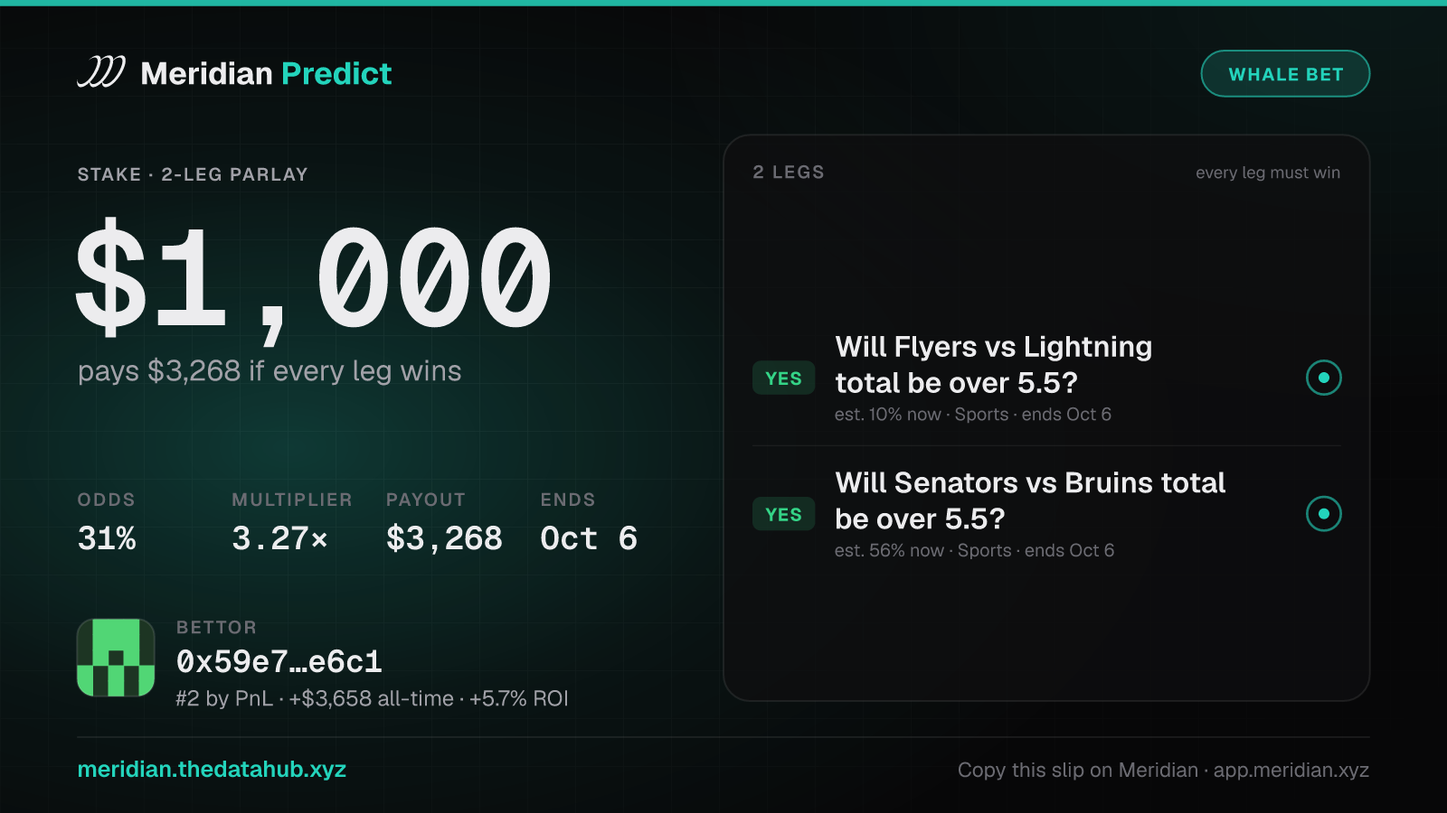
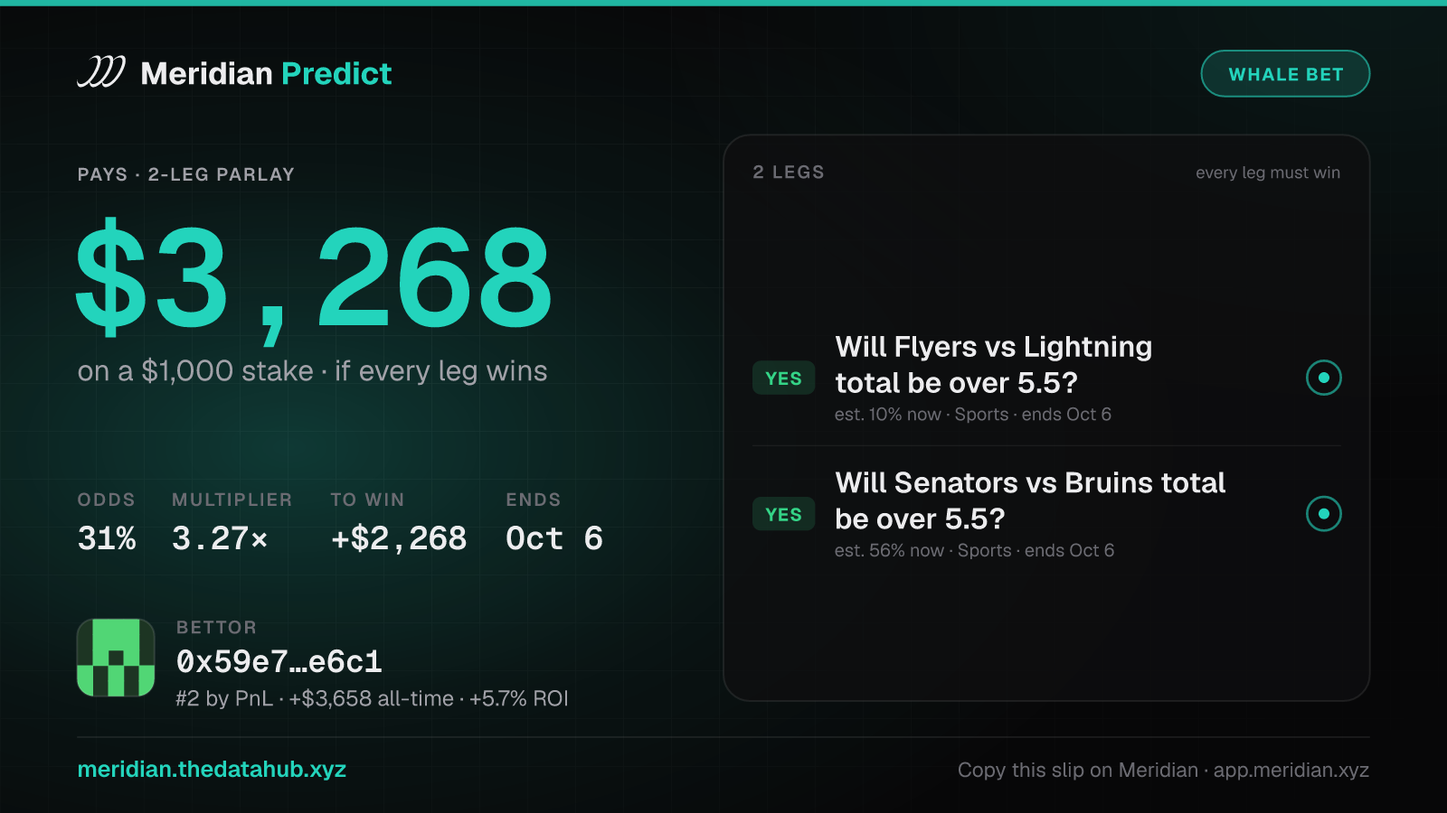
X bot preview page: the payout-first cards
The bot's bet cards now lead with what the bet pays, in the alert's colour, with the stake under it in smaller type, and
the posts open with the payout line. The page is rebuilt from a fresh 72-hour preview run with the new cards and cover.
A result reply under a bet whose tokens were sold together with the bettor's other bets on the same picks now says so
($1,372 for its 3 bets on these picks) instead of setting the whole sale against the one bet.

diff --git a/x-bot/index.html b/x-bot/index.html
@@ -12,7 +12,7 @@
 <meta property="og:url" content="https://meridian.thedatahub.xyz/x-bot/">
 <meta property="og:title" content="Predict alerts bot · 72-hour preview">
 <meta property="og:description" content="11 posts in 72 hours, replayed on live Meridian Predict data: whale bets, long shots, big wins, result replies and the daily recap, each with its card. Nothing was posted.">
-<meta property="og:image" content="https://meridian.thedatahub.xyz/x-bot/cover.png?v=26ab5f5925">
+<meta property="og:image" content="https://meridian.thedatahub.xyz/x-bot/cover.png?v=02d71a287f">
 <meta property="og:image:type" content="image/png">
 <meta property="og:image:width" content="1200">
 <meta property="og:image:height" content="630">
@@ -20,7 +20,7 @@
 <meta name="twitter:card" content="summary_large_image">
 <meta name="twitter:title" content="Predict alerts bot · 72-hour preview">
 <meta name="twitter:description" content="11 posts in 72 hours, replayed on live Meridian Predict data: whale bets, long shots, big wins, result replies and the daily recap, each with its card. Nothing was posted.">
-<meta name="twitter:image" content="https://meridian.thedatahub.xyz/x-bot/cover.png?v=26ab5f5925">
+<meta name="twitter:image" content="https://meridian.thedatahub.xyz/x-bot/cover.png?v=02d71a287f">
 <meta name="twitter:image:alt" content="Predict alerts bot: what it would have posted in the last 72 hours, with two of its cards">
 <meta name="color-scheme" content="dark">
 <meta name="theme-color" content="#23d4bc">
@@ -45,24 +45,25 @@
 <article class="post" id="post-202610061739">
   <div class="av"><svg viewBox="0 0 40 40" aria-hidden="true"><rect width="40" height="40" rx="12" fill="var(--av-bg)"/><path d="M8 26h6l3-9 5 15 4-11 2 5h4" fill="none" stroke="var(--accent)" stroke-width="2.4" stroke-linecap="round" stroke-linejoin="round"/></svg></div>
   <div class="body">
-    <header><span class="name">Predict alerts</span><span class="bot">bot preview</span><time datetime="2026-10-06T17:39:14.195Z">Oct 6 · 17:39 UTC</time></header>
+    <header><span class="name">Predict alerts</span><span class="bot">bot preview</span><time datetime="2026-10-06T17:39:00.369Z">Oct 6 · 17:39 UTC</time></header>
     
     <p class="text">🚀 Long shot on Meridian Predict
 
+💰 Pays $5,000 if it hits (23.81×)
 2-leg parlay: Will Croatia win on 2026-10-06? + 1 more
-$210 at 4.2% · pays $5,000 (23.81×) if it hits
+$210 stake at 4.2%
 
 0x090f…cd57 · 105 bets on Meridian Predict
 
 Copy the slip 👉 <a href="https://app.meridian.xyz/predict/p/0x892bde36738341342101d3412c42a1d216c6ae312a758bc52a8bc4ed0d5b6689?ref=BJ9Y51H9XB1L" rel="noopener">app.meridian.xyz/predict/p/0x8…</a></p>
-    <figure><img src="/x-bot/cards/01-longshot.png" alt="Card: a long shot on Meridian Predict. $210 at 4.2% odds, pays $5,000. YES Will Croatia win on 2026-10-06?; YES Will both Luxembourg and Bulgaria score?. Bettor 0x090f…cd57." width="1600" height="900" loading="lazy" decoding="async"></figure>
-    <footer><span class="chip kind" data-kind="longshot">Long shot</span><span class="chip">222/280</span><span class="chip dim">score 93</span></footer>
+    <figure><img src="/x-bot/cards/01-longshot.png" alt="Card: a long shot on Meridian Predict. Pays $5,000 if it hits, on a $210 stake at 4.2% odds. YES Will Croatia win on 2026-10-06?; YES Will both Luxembourg and Bulgaria score?. Bettor 0x090f…cd57." width="1600" height="900" loading="lazy" decoding="async"></figure>
+    <footer><span class="chip kind" data-kind="longshot">Long shot</span><span class="chip">229/280</span><span class="chip dim">score 93</span></footer>
   </div>
 </article>
 <article class="post" id="post-202610060041">
   <div class="av"><svg viewBox="0 0 40 40" aria-hidden="true"><rect width="40" height="40" rx="12" fill="var(--av-bg)"/><path d="M8 26h6l3-9 5 15 4-11 2 5h4" fill="none" stroke="var(--accent)" stroke-width="2.4" stroke-linecap="round" stroke-linejoin="round"/></svg></div>
   <div class="body">
-    <header><span class="name">Predict alerts</span><span class="bot">bot preview</span><time datetime="2026-10-06T00:41:14.195Z">Oct 6 · 00:41 UTC</time></header>
+    <header><span class="name">Predict alerts</span><span class="bot">bot preview</span><time datetime="2026-10-06T00:41:00.369Z">Oct 6 · 00:41 UTC</time></header>
     
     <p class="text">📊 Meridian Predict · Monday, Oct 5
 
@@ -78,24 +79,25 @@ Join in 👉 <a href="https://app.meridian.xyz/predict?ref=BJ9Y51H9XB1L" rel="no
 <article class="post" id="post-202610052333">
   <div class="av"><svg viewBox="0 0 40 40" aria-hidden="true"><rect width="40" height="40" rx="12" fill="var(--av-bg)"/><path d="M8 26h6l3-9 5 15 4-11 2 5h4" fill="none" stroke="var(--accent)" stroke-width="2.4" stroke-linecap="round" stroke-linejoin="round"/></svg></div>
   <div class="body">
-    <header><span class="name">Predict alerts</span><span class="bot">bot preview</span><time datetime="2026-10-05T23:33:14.195Z">Oct 5 · 23:33 UTC</time></header>
+    <header><span class="name">Predict alerts</span><span class="bot">bot preview</span><time datetime="2026-10-05T23:33:00.369Z">Oct 5 · 23:33 UTC</time></header>
     
-    <p class="text">🐋 $1,000 just landed on Meridian Predict
+    <p class="text">🐋 Big money just landed on Meridian Predict
 
-$1,000 on 2-leg parlay: Will Flyers vs Lightning total be over 5.5? + 1 more
-At 31% · pays $3,268 (3.27×)
+💰 Pays $3,268 if it hits (3.27×)
+2-leg parlay: Will Flyers vs Lightning total be over 5.5? + 1 more
+$1,000 stake at 31%
 
 0x59e7…e6c1 · #2 by PnL · +$3,658 all-time · +5.7% ROI
 
 Copy the slip 👉 <a href="https://app.meridian.xyz/predict/p/0x694653b93bdb89eef1382e96929658cd461d17e34c03e217d4e0edd932a1fd9e?ref=BJ9Y51H9XB1L" rel="noopener">app.meridian.xyz/predict/p/0x6…</a></p>
-    <figure><img src="/x-bot/cards/03-whale.png" alt="Card: a whale bet on Meridian Predict. $1,000 at 31% odds, pays $3,268. YES Will Flyers vs Lightning total be over 5.5?; YES Will Senators vs Bruins total be over 5.5?. Bettor 0x59e7…e6c1." width="1600" height="900" loading="lazy" decoding="async"></figure>
-    <footer><span class="chip kind" data-kind="whale">Whale bet</span><span class="chip">247/280</span><span class="chip dim">score 111</span></footer>
+    <figure><img src="/x-bot/cards/03-whale.png" alt="Card: a whale bet on Meridian Predict. Pays $3,268 if it hits, on a $1,000 stake at 31% odds. YES Will Flyers vs Lightning total be over 5.5?; YES Will Senators vs Bruins total be over 5.5?. Bettor 0x59e7…e6c1." width="1600" height="900" loading="lazy" decoding="async"></figure>
+    <footer><span class="chip kind" data-kind="whale">Whale bet</span><span class="chip">265/280</span><span class="chip dim">score 111</span></footer>
   </div>
 </article>
 <article class="post" id="post-202610052307">
   <div class="av"><svg viewBox="0 0 40 40" aria-hidden="true"><rect width="40" height="40" rx="12" fill="var(--av-bg)"/><path d="M8 26h6l3-9 5 15 4-11 2 5h4" fill="none" stroke="var(--accent)" stroke-width="2.4" stroke-linecap="round" stroke-linejoin="round"/></svg></div>
   <div class="body">
-    <header><span class="name">Predict alerts</span><span class="bot">bot preview</span><time datetime="2026-10-05T23:07:14.195Z">Oct 5 · 23:07 UTC</time></header>
+    <header><span class="name">Predict alerts</span><span class="bot">bot preview</span><time datetime="2026-10-05T23:07:00.369Z">Oct 5 · 23:07 UTC</time></header>
     <p class="replying">Reply to the <a href="#post-202610051627">whale bet alert of Oct 5 · 16:27 UTC</a></p>
     <p class="text">✅ It hit!
 
@@ -107,24 +109,25 @@ $1,000 → $4,096 (+$3,096) · 4.10×</p>
 <article class="post" id="post-202610051627">
   <div class="av"><svg viewBox="0 0 40 40" aria-hidden="true"><rect width="40" height="40" rx="12" fill="var(--av-bg)"/><path d="M8 26h6l3-9 5 15 4-11 2 5h4" fill="none" stroke="var(--accent)" stroke-width="2.4" stroke-linecap="round" stroke-linejoin="round"/></svg></div>
   <div class="body">
-    <header><span class="name">Predict alerts</span><span class="bot">bot preview</span><time datetime="2026-10-05T16:27:14.195Z">Oct 5 · 16:27 UTC</time></header>
+    <header><span class="name">Predict alerts</span><span class="bot">bot preview</span><time datetime="2026-10-05T16:27:00.369Z">Oct 5 · 16:27 UTC</time></header>
     
     <p class="text">🐋 Whale bet on Meridian Predict
 
-$1,000 on 4-leg parlay: Will both Italy and Türkiye score? + 3 more
-At 24% · pays $4,096 (4.10×)
+💰 Pays $4,096 if it hits (4.10×)
+4-leg parlay: Will both Italy and Türkiye score? + 3 more
+$1,000 stake at 24%
 
 0x59e7…e6c1 · #2 by PnL · +$3,658 all-time · +5.7% ROI
 
 Copy the slip 👉 <a href="https://app.meridian.xyz/predict/p/0x261a62e76e4d7ec48c7f19d9b64a8dddf88f2de3057bf410600ede51ad011ef2?ref=BJ9Y51H9XB1L" rel="noopener">app.meridian.xyz/predict/p/0x2…</a></p>
-    <figure><img src="/x-bot/cards/05-whale.png" alt="Card: a whale bet on Meridian Predict. $1,000 at 24% odds, pays $4,096. YES Will both Italy and Türkiye score?; YES Will both France and Belgium score?; YES Will France vs Belgium total be over 2.5?; and 1 more legs. Bettor 0x59e7…e6c1." width="1600" height="900" loading="lazy" decoding="async"></figure>
-    <footer><span class="chip kind" data-kind="whale">Whale bet</span><span class="chip">229/280</span><span class="chip dim">score 111</span></footer>
+    <figure><img src="/x-bot/cards/05-whale.png" alt="Card: a whale bet on Meridian Predict. Pays $4,096 if it hits, on a $1,000 stake at 24% odds. YES Will both Italy and Türkiye score?; YES Will both France and Belgium score?; YES Will France vs Belgium total be over 2.5?; and 1 more leg. Bettor 0x59e7…e6c1." width="1600" height="900" loading="lazy" decoding="async"></figure>
+    <footer><span class="chip kind" data-kind="whale">Whale bet</span><span class="chip">244/280</span><span class="chip dim">score 111</span></footer>
   </div>
 </article>
 <article class="post" id="post-202610042307">
   <div class="av"><svg viewBox="0 0 40 40" aria-hidden="true"><rect width="40" height="40" rx="12" fill="var(--av-bg)"/><path d="M8 26h6l3-9 5 15 4-11 2 5h4" fill="none" stroke="var(--accent)" stroke-width="2.4" stroke-linecap="round" stroke-linejoin="round"/></svg></div>
   <div class="body">
-    <header><span class="name">Predict alerts</span><span class="bot">bot preview</span><time datetime="2026-10-04T23:07:14.195Z">Oct 4 · 23:07 UTC</time></header>
+    <header><span class="name">Predict alerts</span><span class="bot">bot preview</span><time datetime="2026-10-04T23:07:00.369Z">Oct 4 · 23:07 UTC</time></header>
     
     <p class="text">💰 Big win on Meridian Predict
 
@@ -132,41 +135,42 @@ Copy the slip 👉 <a href="https://app.meridian.xyz/predict/p/0x261a62e76e4d7ec
 0x59e7…e6c1 turned $617 into $1,989 (+$1,372)
 
 Make your call 👉 <a href="https://app.meridian.xyz/predict?ref=BJ9Y51H9XB1L" rel="noopener">app.meridian.xyz/predict</a></p>
-    <figure><img src="/x-bot/cards/06-bigwin.png" alt="Card: a big win on Meridian Predict. $617 at 31% odds, pays $1,989. YES Will Netherlands vs Serbia total be over 2.5?; YES Republic of Ireland vs. Israel: Republic of Ireland O/U 0.5; YES Portugal vs. Norway: Portugal O/U 1.5; and 2 more legs. Bettor 0x59e7…e6c1." width="1600" height="900" loading="lazy" decoding="async"></figure>
+    <figure><img src="/x-bot/cards/06-bigwin.png" alt="Card: a big win on Meridian Predict. Won +$1,372: $617 paid $1,989 at 31% odds. YES Will Netherlands vs Serbia total be over 2.5?; YES Republic of Ireland vs. Israel: Republic of Ireland O/U 0.5; YES Portugal vs. Norway: Portugal O/U 1.5; and 2 more legs. Bettor 0x59e7…e6c1." width="1600" height="900" loading="lazy" decoding="async"></figure>
     <footer><span class="chip kind" data-kind="bigwin">Big win</span><span class="chip">190/280</span><span class="chip dim">score 114</span></footer>
   </div>
 </article>
 <article class="post" id="post-202610042109">
   <div class="av"><svg viewBox="0 0 40 40" aria-hidden="true"><rect width="40" height="40" rx="12" fill="var(--av-bg)"/><path d="M8 26h6l3-9 5 15 4-11 2 5h4" fill="none" stroke="var(--accent)" stroke-width="2.4" stroke-linecap="round" stroke-linejoin="round"/></svg></div>
   <div class="body">
-    <header><span class="name">Predict alerts</span><span class="bot">bot preview</span><time datetime="2026-10-04T21:09:14.195Z">Oct 4 · 21:09 UTC</time></header>
+    <header><span class="name">Predict alerts</span><span class="bot">bot preview</span><time datetime="2026-10-04T21:09:00.369Z">Oct 4 · 21:09 UTC</time></header>
     <p class="replying">Reply to the <a href="#post-202610041939">long shot alert of Oct 4 · 19:39 UTC</a></p>
-    <p class="text">✅ The picks won, but 0x21a6…1565 had sold the tokens before the result (for $1,372).</p>
+    <p class="text">✅ The picks won, but 0x21a6…1565 had sold the tokens before the result: $1,372 for its 3 bets on these picks.</p>
     
-    <footer><span class="chip kind" data-kind="won">Result reply</span><span class="chip">86/280</span><span class="chip dim">score 90</span></footer>
+    <footer><span class="chip kind" data-kind="won">Result reply</span><span class="chip">111/280</span><span class="chip dim">score 90</span></footer>
   </div>
 </article>
 <article class="post" id="post-202610041939">
   <div class="av"><svg viewBox="0 0 40 40" aria-hidden="true"><rect width="40" height="40" rx="12" fill="var(--av-bg)"/><path d="M8 26h6l3-9 5 15 4-11 2 5h4" fill="none" stroke="var(--accent)" stroke-width="2.4" stroke-linecap="round" stroke-linejoin="round"/></svg></div>
   <div class="body">
-    <header><span class="name">Predict alerts</span><span class="bot">bot preview</span><time datetime="2026-10-04T19:39:14.195Z">Oct 4 · 19:39 UTC</time></header>
+    <header><span class="name">Predict alerts</span><span class="bot">bot preview</span><time datetime="2026-10-04T19:39:00.369Z">Oct 4 · 19:39 UTC</time></header>
     
-    <p class="text">🚀 $250 on a 7.0% shot
+    <p class="text">🚀 A 7.0% shot on Meridian Predict
 
+💰 Pays $3,571 if it hits (14.29×)
 YES · Rams beats Eagles?
-$250 at 7.0% · pays $3,571 (14.29×) if it hits
+$250 stake
 
 0x21a6…1565 · #7 by PnL · +$1,509 all-time · 70% win rate
 
 Copy the slip 👉 <a href="https://app.meridian.xyz/predict/p/0x317e314fde023a43073ffa6a559403b4b2bebcb38f244f7d226d4806a91edc70?ref=BJ9Y51H9XB1L" rel="noopener">app.meridian.xyz/predict/p/0x3…</a></p>
-    <figure><img src="/x-bot/cards/08-longshot.png" alt="Card: a long shot on Meridian Predict. $250 at 7.0% odds, pays $3,571. YES Rams beats Eagles?. Bettor 0x21a6…1565." width="1600" height="900" loading="lazy" decoding="async"></figure>
-    <footer><span class="chip kind" data-kind="longshot">Long shot</span><span class="chip">197/280</span><span class="chip dim">score 99</span></footer>
+    <figure><img src="/x-bot/cards/08-longshot.png" alt="Card: a long shot on Meridian Predict. Pays $3,571 if it hits, on a $250 stake at 7.0% odds. YES Rams beats Eagles?. Bettor 0x21a6…1565." width="1600" height="900" loading="lazy" decoding="async"></figure>
+    <footer><span class="chip kind" data-kind="longshot">Long shot</span><span class="chip">208/280</span><span class="chip dim">score 99</span></footer>
   </div>
 </article>
 <article class="post" id="post-202610041725">
   <div class="av"><svg viewBox="0 0 40 40" aria-hidden="true"><rect width="40" height="40" rx="12" fill="var(--av-bg)"/><path d="M8 26h6l3-9 5 15 4-11 2 5h4" fill="none" stroke="var(--accent)" stroke-width="2.4" stroke-linecap="round" stroke-linejoin="round"/></svg></div>
   <div class="body">
-    <header><span class="name">Predict alerts</span><span class="bot">bot preview</span><time datetime="2026-10-04T17:25:14.195Z">Oct 4 · 17:25 UTC</time></header>
+    <header><span class="name">Predict alerts</span><span class="bot">bot preview</span><time datetime="2026-10-04T17:25:00.369Z">Oct 4 · 17:25 UTC</time></header>
     
     <p class="text">💰 $300 → $1,078 on Meridian Predict
 
@@ -174,14 +178,14 @@ Copy the slip 👉 <a href="https://app.meridian.xyz/predict/p/0x317e314fde023a4
 0x069a…d505 turned $300 into $1,078 (+$778)
 
 Make your call 👉 <a href="https://app.meridian.xyz/predict?ref=BJ9Y51H9XB1L" rel="noopener">app.meridian.xyz/predict</a></p>
-    <figure><img src="/x-bot/cards/09-bigwin.png" alt="Card: a big win on Meridian Predict. $300 at 28% odds, pays $1,078. YES Will Azerbaijan win on 2026-10-04?; YES Will Scotland win on 2026-10-03?. Bettor 0x069a…d505." width="1600" height="900" loading="lazy" decoding="async"></figure>
+    <figure><img src="/x-bot/cards/09-bigwin.png" alt="Card: a big win on Meridian Predict. Won +$778: $300 paid $1,078 at 28% odds. YES Will Azerbaijan win on 2026-10-04?; YES Will Scotland win on 2026-10-03?. Bettor 0x069a…d505." width="1600" height="900" loading="lazy" decoding="async"></figure>
     <footer><span class="chip kind" data-kind="bigwin">Big win</span><span class="chip">184/280</span><span class="chip dim">score 110</span></footer>
   </div>
 </article>
 <article class="post" id="post-202610040301">
   <div class="av"><svg viewBox="0 0 40 40" aria-hidden="true"><rect width="40" height="40" rx="12" fill="var(--av-bg)"/><path d="M8 26h6l3-9 5 15 4-11 2 5h4" fill="none" stroke="var(--accent)" stroke-width="2.4" stroke-linecap="round" stroke-linejoin="round"/></svg></div>
   <div class="body">
-    <header><span class="name">Predict alerts</span><span class="bot">bot preview</span><time datetime="2026-10-04T03:01:14.195Z">Oct 4 · 03:01 UTC</time></header>
+    <header><span class="name">Predict alerts</span><span class="bot">bot preview</span><time datetime="2026-10-04T03:01:00.369Z">Oct 4 · 03:01 UTC</time></header>
     
     <p class="text">💰 $470 → $1,999 on Meridian Predict
 
@@ -189,14 +193,14 @@ Make your call 👉 <a href="https://app.meridian.xyz/predict?ref=BJ9Y51H9XB1L" 
 0x59e7…e6c1 turned $470 into $1,999 (+$1,529)
 
 Make your call 👉 <a href="https://app.meridian.xyz/predict?ref=BJ9Y51H9XB1L" rel="noopener">app.meridian.xyz/predict</a></p>
-    <figure><img src="/x-bot/cards/10-bigwin.png" alt="Card: a big win on Meridian Predict. $470 at 24% odds, pays $1,999. YES North Macedonia vs. Scotland: Scotland O/U 1.5; YES Switzerland vs. Slovenia: Slovenia O/U 0.5. Bettor 0x59e7…e6c1." width="1600" height="900" loading="lazy" decoding="async"></figure>
+    <figure><img src="/x-bot/cards/10-bigwin.png" alt="Card: a big win on Meridian Predict. Won +$1,529: $470 paid $1,999 at 24% odds. YES North Macedonia vs. Scotland: Scotland O/U 1.5; YES Switzerland vs. Slovenia: Slovenia O/U 0.5. Bettor 0x59e7…e6c1." width="1600" height="900" loading="lazy" decoding="async"></figure>
     <footer><span class="chip kind" data-kind="bigwin">Big win</span><span class="chip">198/280</span><span class="chip dim">score 119</span></footer>
   </div>
 </article>
 <article class="post" id="post-202610032301">
   <div class="av"><svg viewBox="0 0 40 40" aria-hidden="true"><rect width="40" height="40" rx="12" fill="var(--av-bg)"/><path d="M8 26h6l3-9 5 15 4-11 2 5h4" fill="none" stroke="var(--accent)" stroke-width="2.4" stroke-linecap="round" stroke-linejoin="round"/></svg></div>
   <div class="body">
-    <header><span class="name">Predict alerts</span><span class="bot">bot preview</span><time datetime="2026-10-03T23:01:14.195Z">Oct 3 · 23:01 UTC</time></header>
+    <header><span class="name">Predict alerts</span><span class="bot">bot preview</span><time datetime="2026-10-03T23:01:00.369Z">Oct 3 · 23:01 UTC</time></header>
     
     <p class="text">🔥 Upset! An 18% shot just paid 5.60×
 
@@ -204,7 +208,7 @@ Make your call 👉 <a href="https://app.meridian.xyz/predict?ref=BJ9Y51H9XB1L" 
 0x59e7…e6c1 turned $367 into $2,056 (+$1,689)
 
 Make your call 👉 <a href="https://app.meridian.xyz/predict?ref=BJ9Y51H9XB1L" rel="noopener">app.meridian.xyz/predict</a></p>
-    <figure><img src="/x-bot/cards/11-bigwin.png" alt="Card: a big win on Meridian Predict. $367 at 18% odds, pays $2,056. YES Will Belarus vs San Marino total be over 3.5?; YES Will Croatia vs England total be over 2.5?; YES Spain vs. Czechia: Spain O/U 2.5. Bettor 0x59e7…e6c1." width="1600" height="900" loading="lazy" decoding="async"></figure>
+    <figure><img src="/x-bot/cards/11-bigwin.png" alt="Card: a big win on Meridian Predict. Won +$1,689: $367 paid $2,056 at 18% odds. YES Will Belarus vs San Marino total be over 3.5?; YES Will Croatia vs England total be over 2.5?; YES Spain vs. Czechia: Spain O/U 2.5. Bettor 0x59e7…e6c1." width="1600" height="900" loading="lazy" decoding="async"></figure>
     <footer><span class="chip kind" data-kind="upset">Upset</span><span class="chip">197/280</span><span class="chip dim">score 125</span></footer>
   </div>
 </article>
@@ -212,22 +216,22 @@ Make your call 👉 <a href="https://app.meridian.xyz/predict?ref=BJ9Y51H9XB1L" 
   <details>
     <summary>Held back by the limits <span>(17)</span></summary>
     <ul class="held">
-<li><span class="chip kind" data-kind="longshot">Long shot</span><time datetime="2026-10-06T08:51:17.000Z">Oct 6 · 08:51 UTC</time><span class="dim">score 105</span><p>🚀 Long shot on Meridian Predict · 5-leg parlay: Novak Djokovic beats Alex de Minaur? (China Open) + 4 more · $716 at 14% · pays $4,945 (6.91×) if it hits</p></li>
-<li><span class="chip kind" data-kind="whale">Whale bet</span><time datetime="2026-10-06T08:46:17.000Z">Oct 6 · 08:46 UTC</time><span class="dim">score 113</span><p>🐋 Whale bet on Meridian Predict · $1,280 on 2-leg parlay: Will England vs Czechia total be over 3.5? + 1 more · At 26% · pays $4,896 (3.83×)</p></li>
-<li><span class="chip kind" data-kind="whale">Whale bet</span><time datetime="2026-10-05T23:12:44.000Z">Oct 5 · 23:12 UTC</time><span class="dim">score 111</span><p>🐋 Whale bet on Meridian Predict · $1,000 on 2-leg parlay: Will Sharks vs Stars total be over 5.5? + 1 more · At 39% · pays $2,572 (2.57×)</p></li>
-<li><span class="chip kind" data-kind="longshot">Long shot</span><time datetime="2026-10-05T19:58:34.000Z">Oct 5 · 19:58 UTC</time><span class="dim">score 103</span><p>🚀 $544 on a 12% shot · 3-leg parlay: Will Sharks vs Stars total be over 5.5? + 2 more · $544 at 12% · pays $4,370 (8.03×) if it hits</p></li>
-<li><span class="chip kind" data-kind="longshot">Long shot</span><time datetime="2026-10-05T17:05:13.000Z">Oct 5 · 17:05 UTC</time><span class="dim">score 102</span><p>🚀 $500 on a 16% shot · 3-leg parlay: Will France vs Belgium total be over 2.5? + 2 more · $500 at 16% · pays $3,116 (6.23×) if it hits</p></li>
-<li><span class="chip kind" data-kind="longshot">Long shot</span><time datetime="2026-10-04T23:47:11.000Z">Oct 4 · 23:47 UTC</time><span class="dim">score 100</span><p>🚀 $400 on a 20% shot · 3-leg parlay: Will Flames vs Kraken total be over 5.5? + 2 more · $400 at 20% · pays $2,026 (5.06×) if it hits</p></li>
-<li><span class="chip kind" data-kind="longshot">Long shot</span><time datetime="2026-10-04T20:22:10.000Z">Oct 4 · 20:22 UTC</time><span class="dim">score 97</span><p>🚀 Long shot on Meridian Predict · 3-leg parlay: Lions beats Panthers? + 2 more · $250 at 19% · pays $1,311 (5.24×) if it hits</p></li>
-<li><span class="chip kind" data-kind="longshot">Long shot</span><time datetime="2026-10-04T14:28:29.000Z">Oct 4 · 14:28 UTC</time><span class="dim">score 99</span><p>🚀 $330 on a 16% shot · 3-leg parlay: Greece vs. Germany: Germany O/U 1.5 + 2 more · $330 at 16% · pays $2,048 (6.21×) if it hits</p></li>
-<li><span class="chip kind" data-kind="longshot">Long shot</span><time datetime="2026-10-04T14:24:59.000Z">Oct 4 · 14:24 UTC</time><span class="dim">score 99</span><p>🚀 $310 on a 15% shot · 3-leg parlay: Will Republic of Ireland vs Israel total be over 2.5? + 2 more · $310 at 15% · pays $2,022 (6.52×) if it hits</p></li>
-<li><span class="chip kind" data-kind="longshot">Long shot</span><time datetime="2026-10-04T14:22:09.000Z">Oct 4 · 14:22 UTC</time><span class="dim">score 102</span><p>🚀 $470 on a 12% shot · 3-leg parlay: Portugal vs. Norway: Portugal O/U 1.5 + 2 more · $470 at 12% · pays $4,001 (8.51×) if it hits</p></li>
-<li><span class="chip kind" data-kind="whale">Whale bet</span><time datetime="2026-10-04T14:18:59.000Z">Oct 4 · 14:18 UTC</time><span class="dim">score 111</span><p>🐋 Whale bet on Meridian Predict · $1,100 on 2-leg parlay: Will Netherlands vs Serbia total be over 2.5? + 1 more · At 53% · pays $2,066 (1.88×)</p></li>
+<li><span class="chip kind" data-kind="longshot">Long shot</span><time datetime="2026-10-06T08:51:17.000Z">Oct 6 · 08:51 UTC</time><span class="dim">score 105</span><p>🚀 Long shot on Meridian Predict · 💰 Pays $4,945 if it hits (6.91×) · 5-leg parlay: Novak Djokovic beats Alex de Minaur? (China Open) + 4 more</p></li>
+<li><span class="chip kind" data-kind="whale">Whale bet</span><time datetime="2026-10-06T08:46:17.000Z">Oct 6 · 08:46 UTC</time><span class="dim">score 113</span><p>🐋 Whale bet on Meridian Predict · 💰 Pays $4,896 if it hits (3.83×) · 2-leg parlay: Will England vs Czechia total be over 3.5? + 1 more</p></li>
+<li><span class="chip kind" data-kind="whale">Whale bet</span><time datetime="2026-10-05T23:12:44.000Z">Oct 5 · 23:12 UTC</time><span class="dim">score 111</span><p>🐋 Whale bet on Meridian Predict · 💰 Pays $2,572 if it hits (2.57×) · 2-leg parlay: Will Sharks vs Stars total be over 5.5? + 1 more</p></li>
+<li><span class="chip kind" data-kind="longshot">Long shot</span><time datetime="2026-10-05T19:58:34.000Z">Oct 5 · 19:58 UTC</time><span class="dim">score 103</span><p>🚀 A 12% shot on Meridian Predict · 💰 Pays $4,370 if it hits (8.03×) · 3-leg parlay: Will Sharks vs Stars total be over 5.5? + 2 more</p></li>
+<li><span class="chip kind" data-kind="longshot">Long shot</span><time datetime="2026-10-05T17:05:13.000Z">Oct 5 · 17:05 UTC</time><span class="dim">score 102</span><p>🚀 A 16% shot on Meridian Predict · 💰 Pays $3,116 if it hits (6.23×) · 3-leg parlay: Will France vs Belgium total be over 2.5? + 2 more</p></li>
+<li><span class="chip kind" data-kind="longshot">Long shot</span><time datetime="2026-10-04T23:47:11.000Z">Oct 4 · 23:47 UTC</time><span class="dim">score 100</span><p>🚀 A 20% shot on Meridian Predict · 💰 Pays $2,026 if it hits (5.06×) · 3-leg parlay: Will Flames vs Kraken total be over 5.5? + 2 more</p></li>
+<li><span class="chip kind" data-kind="longshot">Long shot</span><time datetime="2026-10-04T20:22:10.000Z">Oct 4 · 20:22 UTC</time><span class="dim">score 97</span><p>🚀 Long shot on Meridian Predict · 💰 Pays $1,311 if it hits (5.24×) · 3-leg parlay: Lions beats Panthers? + 2 more</p></li>
+<li><span class="chip kind" data-kind="longshot">Long shot</span><time datetime="2026-10-04T14:28:29.000Z">Oct 4 · 14:28 UTC</time><span class="dim">score 99</span><p>🚀 A 16% shot on Meridian Predict · 💰 Pays $2,048 if it hits (6.21×) · 3-leg parlay: Greece vs. Germany: Germany O/U 1.5 + 2 more</p></li>
+<li><span class="chip kind" data-kind="longshot">Long shot</span><time datetime="2026-10-04T14:24:59.000Z">Oct 4 · 14:24 UTC</time><span class="dim">score 99</span><p>🚀 A 15% shot on Meridian Predict · 💰 Pays $2,022 if it hits (6.52×) · 3-leg parlay: Will Republic of Ireland vs Israel total be over 2.5? + 2 more</p></li>
+<li><span class="chip kind" data-kind="longshot">Long shot</span><time datetime="2026-10-04T14:22:09.000Z">Oct 4 · 14:22 UTC</time><span class="dim">score 102</span><p>🚀 A 12% shot on Meridian Predict · 💰 Pays $4,001 if it hits (8.51×) · 3-leg parlay: Portugal vs. Norway: Portugal O/U 1.5 + 2 more</p></li>
+<li><span class="chip kind" data-kind="whale">Whale bet</span><time datetime="2026-10-04T14:18:59.000Z">Oct 4 · 14:18 UTC</time><span class="dim">score 111</span><p>🐋 Whale bet on Meridian Predict · 💰 Pays $2,066 if it hits (1.88×) · 2-leg parlay: Will Netherlands vs Serbia total be over 2.5? + 1 more</p></li>
 <li><span class="chip kind" data-kind="bigwin">Big win</span><time datetime="2026-10-04T04:51:43.000Z">Oct 4 · 04:51 UTC</time><span class="dim">score 114</span><p>💰 Big win on Meridian Predict · 2-leg parlay: Will Kings vs Sharks total be over 5.5? + 1 more · 0x59e7…e6c1 turned $600 into $1,969 (+$1,369)</p></li>
 <li><span class="chip kind" data-kind="bigwin">Big win</span><time datetime="2026-10-04T04:09:50.000Z">Oct 4 · 04:09 UTC</time><span class="dim">score 114</span><p>💰 Big win on Meridian Predict · 2-leg parlay: Will Blues vs Avalanche total be over 6.5? + 1 more · 0x59e7…e6c1 turned $570 into $2,019 (+$1,449)</p></li>
-<li><span class="chip kind" data-kind="longshot">Long shot</span><time datetime="2026-10-03T23:19:57.000Z">Oct 3 · 23:19 UTC</time><span class="dim">score 103</span><p>🚀 Long shot on Meridian Predict · 3-leg parlay: Will Blues vs Avalanche total be over 6.5? + 2 more · $540 at 18% · pays $3,023 (5.60×) if it hits</p></li>
-<li><span class="chip kind" data-kind="longshot">Long shot</span><time datetime="2026-10-03T23:18:17.000Z">Oct 3 · 23:18 UTC</time><span class="dim">score 101</span><p>🚀 $425 on a 14% shot · 3-leg parlay: Will Bruins vs Wild total be over 6.5? + 2 more · $425 at 14% · pays $3,019 (7.10×) if it hits</p></li>
-<li><span class="chip kind" data-kind="longshot">Long shot</span><time datetime="2026-10-03T23:00:47.000Z">Oct 3 · 23:00 UTC</time><span class="dim">score 101</span><p>🚀 $360 on a 9.7% shot · 4-leg parlay: Will Kraken vs Oilers total be over 6.5? + 3 more · $360 at 9.7% · pays $3,719 (10.33×) if it hits</p></li>
+<li><span class="chip kind" data-kind="longshot">Long shot</span><time datetime="2026-10-03T23:19:57.000Z">Oct 3 · 23:19 UTC</time><span class="dim">score 103</span><p>🚀 Long shot on Meridian Predict · 💰 Pays $3,023 if it hits (5.60×) · 3-leg parlay: Will Blues vs Avalanche total be over 6.5? + 2 more</p></li>
+<li><span class="chip kind" data-kind="longshot">Long shot</span><time datetime="2026-10-03T23:18:17.000Z">Oct 3 · 23:18 UTC</time><span class="dim">score 101</span><p>🚀 A 14% shot on Meridian Predict · 💰 Pays $3,019 if it hits (7.10×) · 3-leg parlay: Will Bruins vs Wild total be over 6.5? + 2 more</p></li>
+<li><span class="chip kind" data-kind="longshot">Long shot</span><time datetime="2026-10-03T23:00:47.000Z">Oct 3 · 23:00 UTC</time><span class="dim">score 101</span><p>🚀 A 9.7% shot on Meridian Predict · 💰 Pays $3,719 if it hits (10.33×) · 4-leg parlay: Will Kraken vs Oilers total be over 6.5? + 3 more</p></li>
 <li><span class="chip kind" data-kind="bigwin">Big win</span><time datetime="2026-10-03T22:59:16.000Z">Oct 3 · 22:59 UTC</time><span class="dim">score 109</span><p>💰 Big win on Meridian Predict · 2-leg parlay: Will Croatia vs England total be over 2.5? + 1 more · 0x59e7…e6c1 turned $425 into $1,001 (+$576)</p></li>
     </ul>
   </details>
